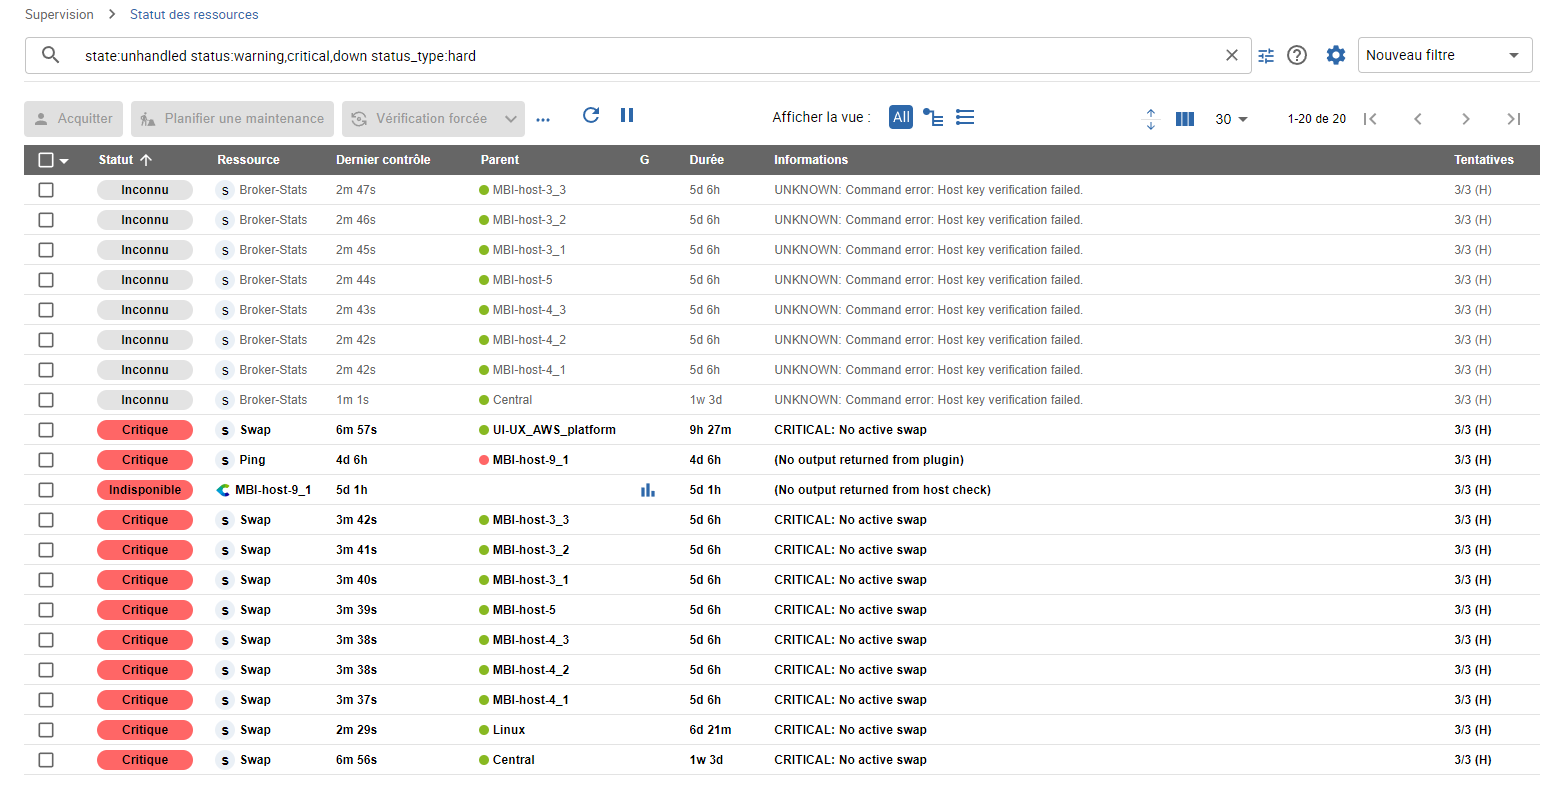
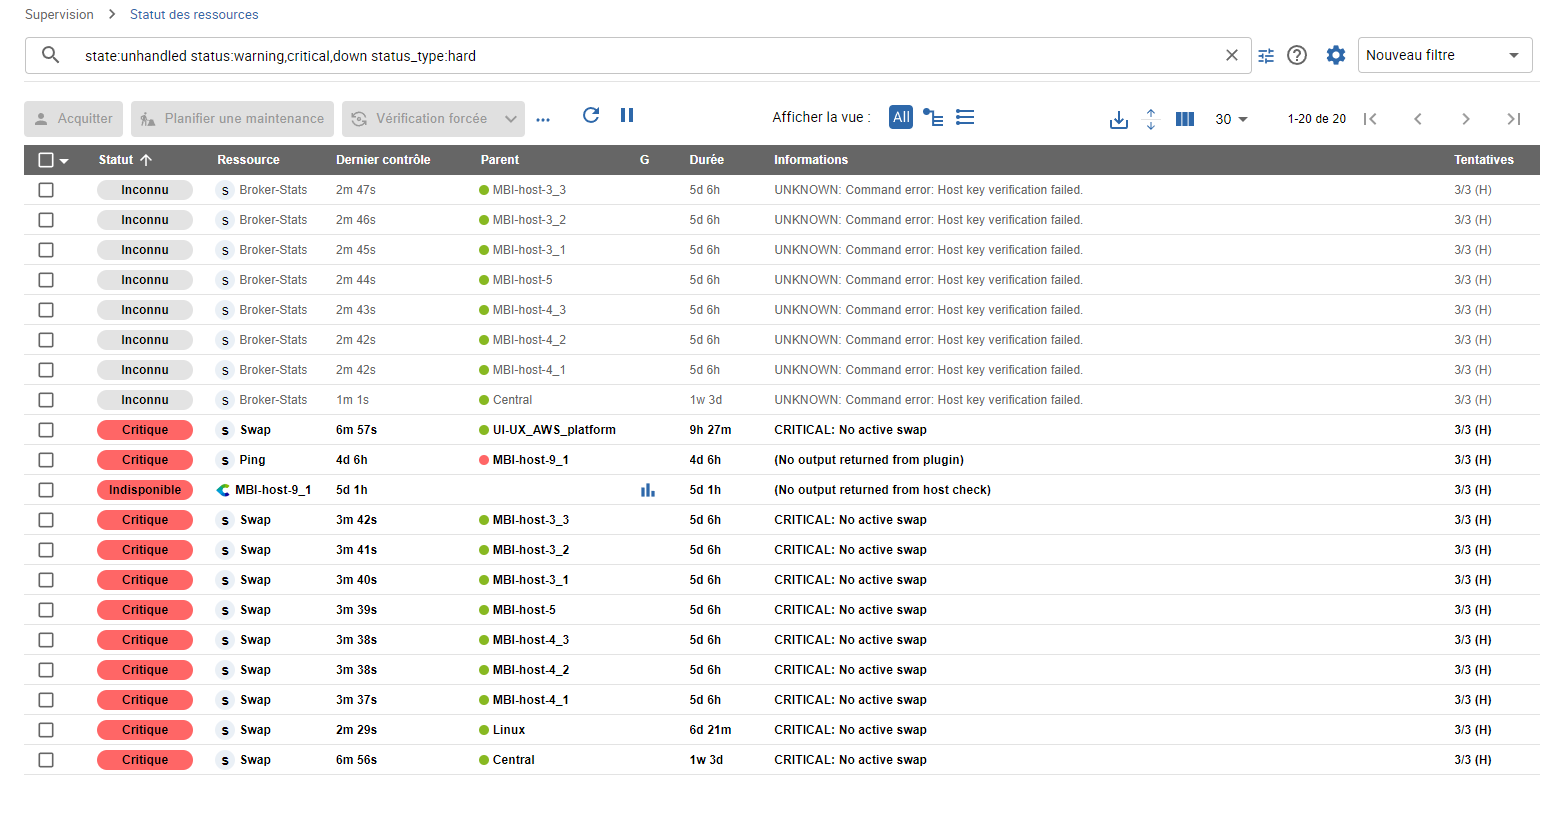
Document Export to CSV - Cloud 25.05 (#4471)
* Document Export to CSV - Cloud 25.05

* Update screenshot

diff --git a/i18n/fr/docusaurus-plugin-content-docs-cloud/current/alerts-notifications/resources-status.md b/i18n/fr/docusaurus-plugin-content-docs-cloud/current/alerts-notifications/resources-status.md
@@ -39,6 +39,20 @@ Cliquez sur le bouton dédié pour faciliter la lecture des informations contenu
 - Mode vue "compact" ![image](../assets/alerts/resources-status/compact-icon.png)
 - Mode vue "extended" ![image](../assets/alerts/resources-status/extended-icon.png)
 
+### Exporter au format CSV
+
+Vous pouvez rapidement obtenir un rapport détaillé sur l'état de vos ressources dans un fichier au format CSV, facile à utiliser. Le fichier créé contient la liste des ressources que vous avez filtrées et vous pouvez exporter jusqu'à 10 000 lignes.
+
+- Cliquez sur le bouton **Exporter en CSV** situé au-dessus de la liste des ressources.
+- Dans la fenêtre qui s'ouvre, définissez les paramètres suivants :
+  - **Sélectionner les colonnes** : **Colonnes visibles seulement** ou **Toutes les colonnes**.
+  - **Sélectionner les pages** : **Page courante seulement** ou **Toutes les pages**.
+- Cliquez sur **Exporter** pour démarrer le traitement de l'export. Vous obtiendrez un fichier téléchargé.
+
+> Notez que le traitement de l'export peut prendre un certain temps. Les données en temps réel affichées à la sortie peuvent avoir changé depuis le début du traitement.
+
+- Une fois le téléchargement terminé, récupérez le fichier dans le dossier **Téléchargements**.
+
 ## Exécuter des actions sur les évènements
 
 ### Prendre en compte un évènement

diff --git a/cloud/alerts-notifications/resources-status.md b/cloud/alerts-notifications/resources-status.md
@@ -36,6 +36,20 @@ Click the dedicated button to improve the readability of the information in the 
 - Compact view mode ![image](../assets/alerts/resources-status/compact-icon.png)
 - Extended view mode ![image](../assets/alerts/resources-status/extended-icon.png)
 
+### Export to CSV
+
+You can quickly get a detailed report on the status of your resources in a CSV file format, easy to work with. The file created contains the list of resources you have filtered and you can export up to 10,000 rows.
+
+- Click the **Export to CSV** button above the list of resources.
+- In the window that opens, set the following parameters:
+  - **Select columns**: **Visible columns only** or **All columns**.
+  - **Select pages**: **Current page only** or **All pages**.
+- Click **Export** to start the export processing. You will get a downloaded file.
+
+> Note that export processing might take some time. The real time data displayed at the output may have changed since the start of processing.
+
+- Once the download is complete, retrieve the file in the **Downloads** folder.
+
 ## Take actions on events
 
 ### Acknowledge an event
